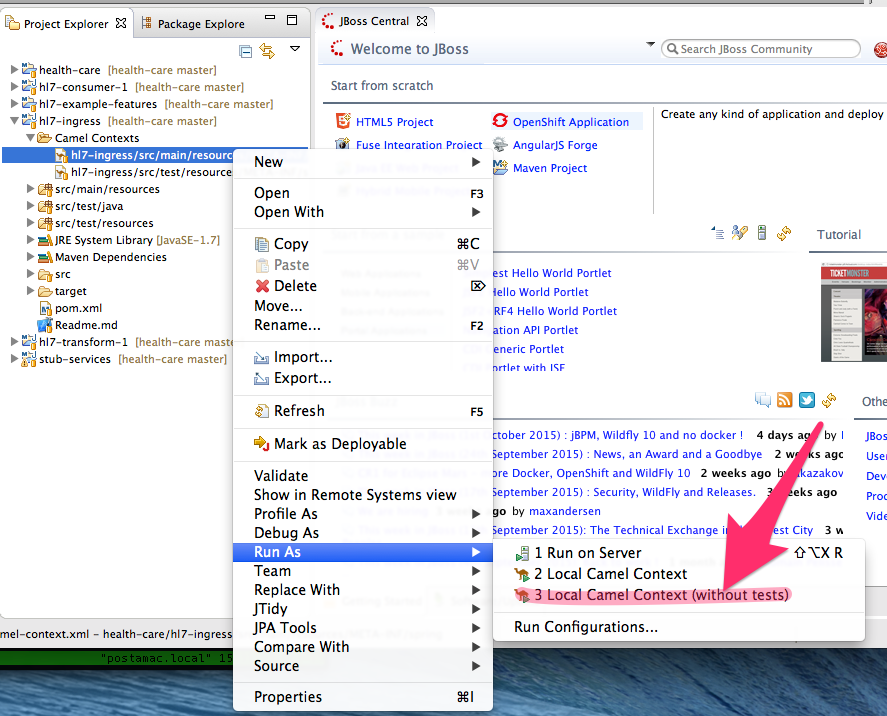
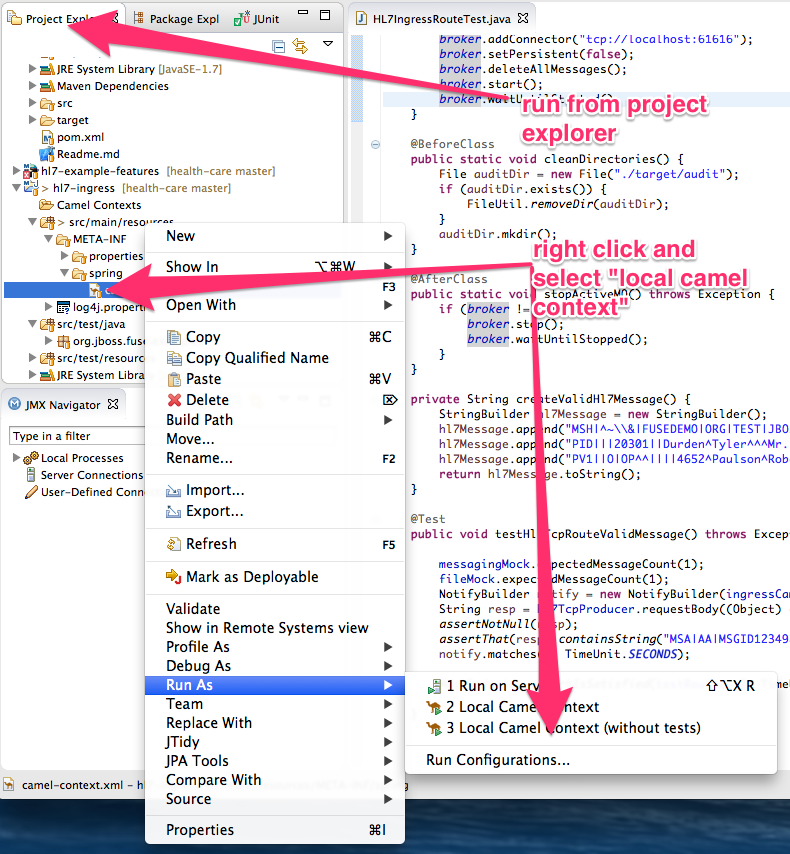
added getting started + images

diff --git a/docs/getting-started.md b/docs/getting-started.md
@@ -85,6 +85,136 @@ Start by navigating to `src/test/java`  in the `hl7-ingress` project and you sho
     
     
 #### [Injecting Camel endpoints and producer templates](http://camel.apache.org/pojo-producing.html) using Camel's `@Produce` and `@EndpoingInject` annotations
+
+```java
+    @Autowired(required=true)
+    private CamelContext testRoutes;
+
+    @Autowired(required=true)
+    private CamelContext ingressCamel;
+
+    @Produce(uri = "netty4:tcp://127.0.0.1:8888?sync=true&decoder=#hl7decoder&encoder=#hl7encoder")
+    private ProducerTemplate hl7TcpProducer;
+
+    @EndpointInject(uri = "mock:messagingMock")
+    private MockEndpoint messagingMock;
+
+    @EndpointInject(uri = "mock:fileMock")
+    private MockEndpoint fileMock;
+```
+
 #### How to bootstrap a **lightweight** ActiveMQ instance, useful for testing (and how to gracefully shut down)
+
+```java
+    @BeforeClass
+    public static void bootActiveMQ() throws Exception {
+        broker = new BrokerService();
+        broker.addConnector("tcp://localhost:61616");
+        broker.setPersistent(false);
+        broker.deleteAllMessages();
+        broker.start();
+        broker.waitUntilStarted();
+    }
+    
+    @AfterClass
+    public static void stopActiveMQ() throws Exception {
+        if (broker != null) {
+            broker.stop();
+            broker.waitUntilStopped();
+        }
+    }        
+```     
+
 #### How to set expectations on the route and assert them at the end of the test
 
+```
+    @Test
+    public void testHl7TcpRouteValidMessage() throws Exception {
+
+        messagingMock.expectedMessageCount(1);
+        fileMock.expectedMessageCount(1);
+        NotifyBuilder notify = new NotifyBuilder(ingressCamel).whenCompleted(2).create();
+        String resp = hl7TcpProducer.requestBody((Object) createValidHl7Message(), String.class);
+        assertNotNull(resp);
+        assertThat(resp, containsString("MSA|AA|MSGID12349876"));
+        notify.matches(2, TimeUnit.SECONDS);
+
+        MockEndpoint.assertIsSatisfied(testRoutes, 2, TimeUnit.SECONDS);
+
+    }
+```
+
+You should try to run this test by right clicking the class and select `RunAs-->Junit Test`
+
+![successful test](images/ingress-successful-test.png)
+
+### Running routes stand-alone (outside of fuse)
+
+We can also run these routes outside of a container using the tooling (or the built in mvn camel plugin). Unit tests are the first source of testing and should not be overlooked. We can get 90% of the functionality correct just by using unit tests. But there will be scnarios that will require you to run the adapters and routing engine outside of a unit test to get a better idea of how the integration points interact in a real scenario. Most folks would prefer to just deploy to a JVM container at this point, but with Camel we could do that or we can run stand alone. 
+  
+Right click the `camel-context.xml` go to `RunAs-->Local Camel Context (without tests)` 
+
+![run stand alone](images/ingress-camel-run.png)
+
+We should see the console spit out some messages like this (which let us know everything is running correctly and bound to the correct ports):
+
+![run stand alone](images/ingress-console.png)
+
+Now let's send a test message! Open up the [HL7 Test Panel](http://hl7api.sourceforge.net/hapi-testpanel/) and generate a new test message. Also start a new "sending connections" session and use port `8888` which is where our camel route is listening. Then click send:
+
+![Hapi test panel](images/ingress-hapi-send.png)
+
+We should see this test fail like this from the Test Panel:
+
+![Hapi test panel](images/failed-hapi-send.png)
+
+Go inspect the logs in the JBDS console.... Why did this fail?
+
+![Hapi test panel](images/failed-hapi-send2.png)
+
+Looks like we don't have ActiveMQ up and running!! This route tries to unmarshal an HL7 message and enqueue it onto an ActiveMQ queue, but we don't have a queue up and running. 
+ 
+Let's start up JBoss Fuse 6.2, which does have ActiveMQ running inside. Navigate to where you've installed JBoss Fuse and run:
+
+    ./bin/fuse
+
+You'll have a successfully running Fuse shell if things went well:
+
+![Hapi test panel](images/ingress-fuse-running.png)
+
+Now try the test again from the HAPI Test Panel:
+
+We should now see the outbound and inbound (request/reply working) from the test panel:
+
+![Hapi test panel](images/ingress-hapi-working.png)
+
+Double check the logging in the console. We should see the message logged correctly. We should also see in the `./target/audit/ingress` folder of the `hl7-ingress` project that an audit file with the correct HL7 document was logged correctly:
+
+
+![Hapi test panel](images/ingress-audit-file.png)
+
+## Deploy into fuse
+We've seen the unit tests working and running the `hl7-ingress` routes working outside of the container. Let's use the Karaf features file and install into a running container.
+
+From the fuse shell type the following:
+
+    features:addurl mvn:org.jboss.fuse.examples/hl7-example-features/1.0.0-SNAPSHOT/xml/features
+    features:install hl7-example-all
+    
+![Install in fuse](images/ingress-install-locally.png)    
+
+Yay, you did it! Actually you've installed all modules of this application (ingress, transformation, consumption). Run this command from the Fuse shell to see the installed modules:
+
+    list
+    
+You should see this:
+
+![Hapi test panel](images/ingress-fuse-list.png)
+
+Try running the test from the HAPI Test Panel again. Now navigate to `http://localhost:818` to login to the Fuse web console. Use the password `admin/admin` to gain access. 
+
+> Note: you'll need to uncomment the last line in the users.properties file in $FUSE_HOME/etc/users.properties by default to gain access using admin/admin
+
+Explore the "ActiveMQ" tab and the queues/topics involved. You should see some destinations have enqueued the HL7 messages from our test.
+
+We will dive deeper into this section when [we dig into Fabric deployments](deploy-fabric.md)
